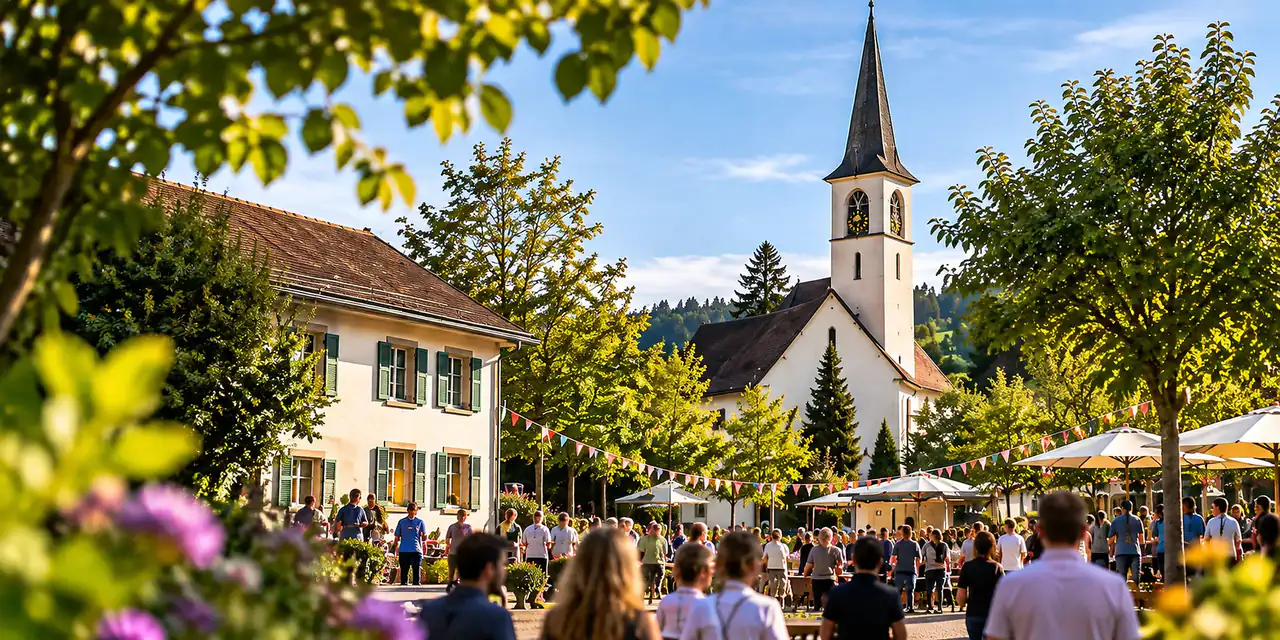
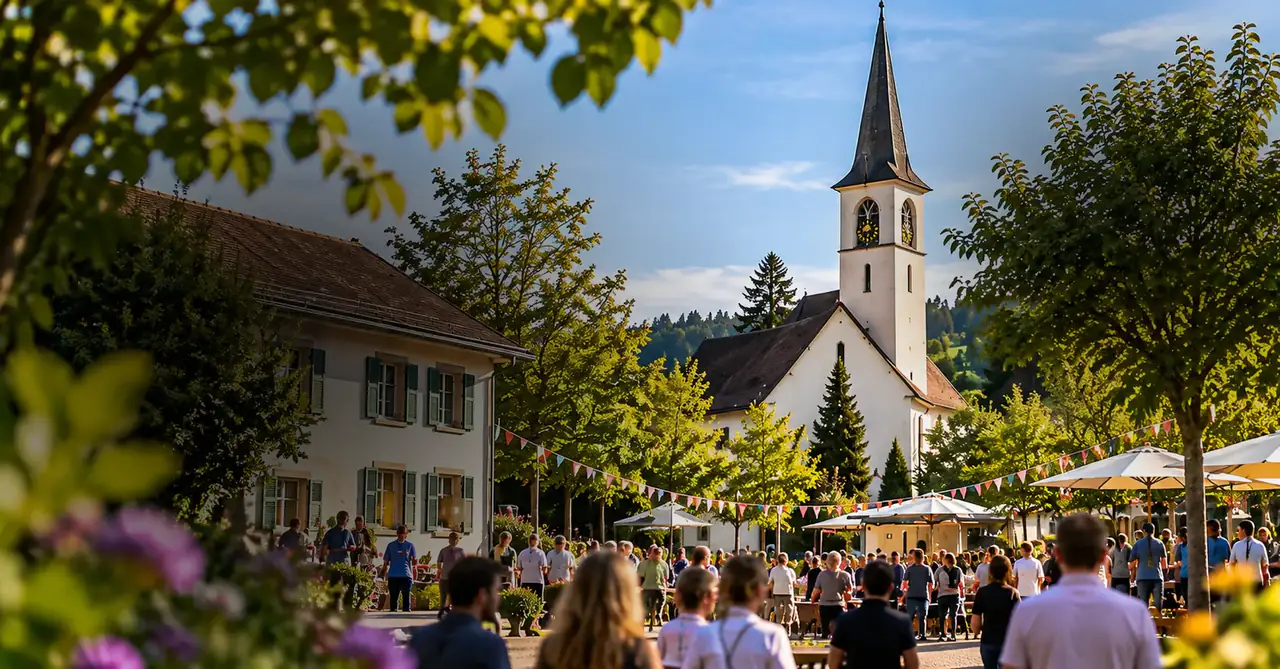
New desktop hero photo; remove late-loading dark overlays
The new photo already contains the Figma shading, so the CSS overlay
backgrounds (which faded in after the photo) are removed. Two stray
arrows from the Figma export were cleaned out of the image.

diff --git a/index.html b/index.html
@@ -37,7 +37,7 @@
   <link rel="preload" as="image" fetchpriority="high" media="(min-width: 768px) and (max-width: 1023.98px)"
         imagesrcset="assets/img/hero-m-960.webp 960w, assets/img/hero-m-1440.webp 1440w" imagesizes="100vw">
   <link rel="preload" as="image" fetchpriority="high" media="(min-width: 1024px)"
-        imagesrcset="assets/img/hero-d-1280.webp 1280w, assets/img/hero-d-1920.webp 1920w, assets/img/hero-d-2560.webp 2560w" imagesizes="100vw">
+        imagesrcset="assets/img/hero-d-1280.webp 1280w, assets/img/hero-d-1920.webp 1920w" imagesizes="100vw">
   <link rel="preload" href="assets/fonts/poppins-400.woff2" as="font" type="font/woff2" crossorigin>
   <link rel="preload" href="assets/fonts/poppins-800.woff2" as="font" type="font/woff2" crossorigin>
 
@@ -111,15 +111,13 @@
     <section class="fl-hero" aria-labelledby="hero-title">
       <figure class="fl-hero__media">
         <picture>
-          <source media="(min-width: 1024px)" srcset="assets/img/hero-d-1280.webp 1280w, assets/img/hero-d-1920.webp 1920w, assets/img/hero-d-2560.webp 2560w" sizes="100vw" width="2560" height="1280">
+          <source media="(min-width: 1024px)" srcset="assets/img/hero-d-1280.webp 1280w, assets/img/hero-d-1920.webp 1920w" sizes="100vw" width="1920" height="1003">
           <source media="(min-width: 768px)" srcset="assets/img/hero-m-960.webp 960w, assets/img/hero-m-1440.webp 1440w" sizes="100vw" width="1440" height="1800">
           <img src="assets/img/hero-m-640.webp" srcset="assets/img/hero-m-480.webp 480w, assets/img/hero-m-640.webp 640w" sizes="100vw" width="640" height="800"
                alt="Dorffest in Lindau: Menschen an Festtischen unter Sonnenschirmen vor der Kirche"
                fetchpriority="high" decoding="async">
         </picture>
       </figure>
-      <span class="fl-hero__ellipse fl-hero__ellipse--left" aria-hidden="true"></span>
-      <span class="fl-hero__ellipse fl-hero__ellipse--right" aria-hidden="true"></span>
       <p class="fl-hero__script" aria-hidden="true">Kultur
 verbindet
 Menschen.</p>

diff --git a/assets/css/responsive.css b/assets/css/responsive.css
@@ -40,9 +40,6 @@
   .fl-hero { display: flex; align-items: center; min-height: 52.24vw; max-height: 1003px; }
   .fl-hero__media { position: absolute; inset: 0; }
   .fl-hero__media img { height: 100%; aspect-ratio: auto; object-position: 50% 50%; }
-  .fl-hero__ellipse { display: block; position: absolute; z-index: 1; pointer-events: none; background: no-repeat center / 100% 100%; }
-  .fl-hero__ellipse--left { left: -31.15%; top: -35.79%; width: 103.85%; aspect-ratio: 1994 / 1784; background-image: url("../img/icons/hero-ellipse-left.svg"); }
-  .fl-hero__ellipse--right { left: 56.98%; top: -19.44%; width: 64.69%; aspect-ratio: 1242 / 1086; background-image: url("../img/icons/hero-ellipse-right.svg"); }
   .fl-hero__content { width: 100%; max-width: calc(var(--container-max) + var(--gutter) * 2); margin-inline: auto; padding: 0 var(--gutter); transform: translateY(-1.15%); }
   .fl-hero__title { max-width: 7.06em; margin-bottom: 0.19em; color: var(--fl-white); }
   .fl-br-desktop { display: inline; }

diff --git a/assets/css/style.css b/assets/css/style.css
@@ -18,8 +18,9 @@
 
 :root {
   /* ---- Colours (Figma) ---- */
-  --fl-green: #009748;         /* brand green from the logo / Figma – used site-wide */
-  --fl-green-dark: #007a3a;    /* hover state */
+  --fl-green-brand: #009748;   /* logo green (Figma) – icons and decoration */
+  --fl-green: #009748;         /* accessible text/button green: 5.2:1 on white (WCAG AA) */
+  --fl-green-dark: #00632f;
   --fl-green-tint: rgba(0, 151, 72, 0.1);
   --fl-heading: #243232;
   --fl-text: #373737;
@@ -358,7 +359,6 @@ img { max-width: 100%; height: auto; }
   object-position: 50% 62%;
 }
 
-.fl-hero__ellipse,
 .fl-hero__script { display: none; }
 
 .fl-hero__content { position: relative; z-index: 2; padding: 28px var(--gutter) 0; }
